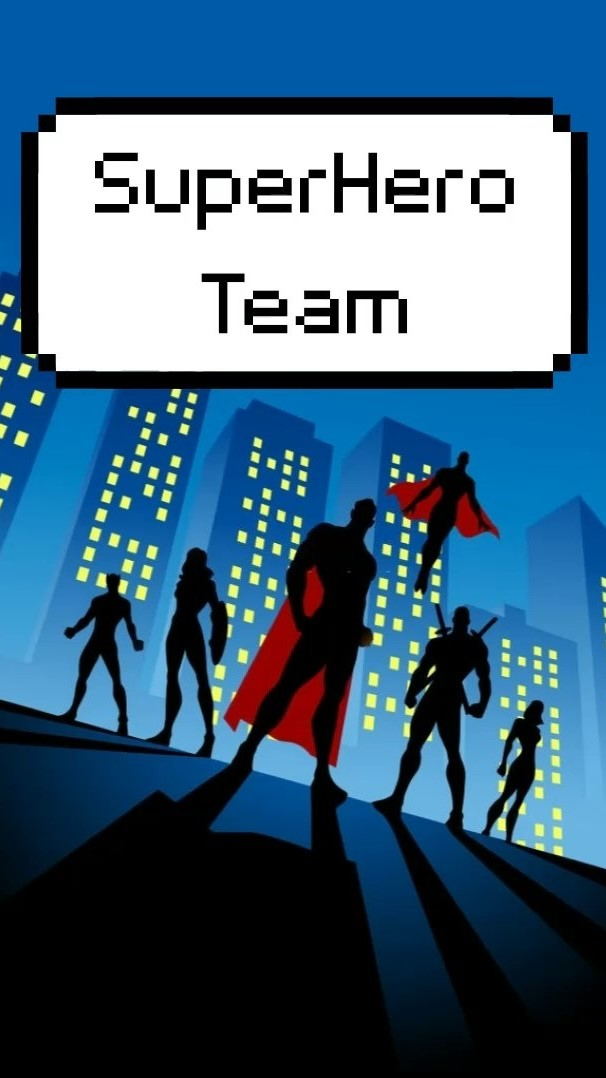
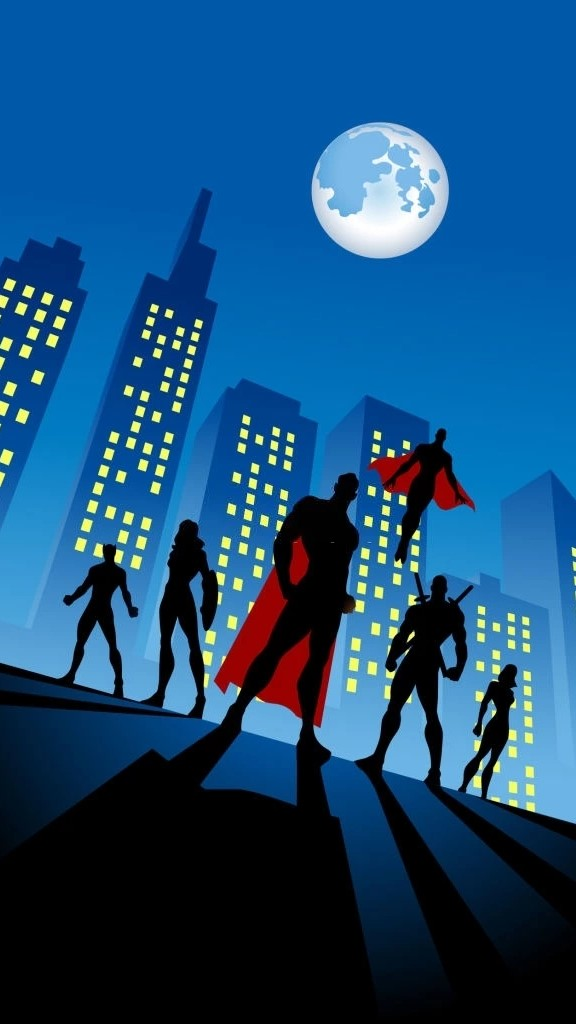
add new loading screen

diff --git a/src/screens/Home/HomeContainer.tsx b/src/screens/Home/HomeContainer.tsx
@@ -6,6 +6,7 @@ import {useSuperHeroApi} from '../../hooks/api/useSuperHeroApi';
 
 export const HomeContainer: React.FC = () => {
   const [isLoading, setIsLoading] = useState<boolean>(true);
+  const [timing, setTiming] = useState<boolean>(true);
   const [error, setError] = useState<boolean>(false);
   const {getAllSuperHeroes} = useSuperHeroApi();
 
@@ -19,6 +20,10 @@ export const HomeContainer: React.FC = () => {
     }
   };
 
+  setTimeout(() => {
+    setTiming(false);
+  }, 1000);
+
   useEffect(() => {
     initSuperHeroesList();
     // eslint-disable-next-line react-hooks/exhaustive-deps
@@ -28,7 +33,7 @@ export const HomeContainer: React.FC = () => {
     return <ErrorScreen />;
   }
 
-  if (isLoading) {
+  if (isLoading || timing) {
     return <LoadingScreen />;
   }
 

diff --git a/src/screens/Loading/LoadingScreen.tsx b/src/screens/Loading/LoadingScreen.tsx
@@ -1,6 +1,13 @@
 import React from 'react';
-import {Text} from 'react-native';
+import {ImageBackground} from 'react-native';
+import superHeroTeamImage from '../../assets/images/superHeroTeam.jpg';
 
-export const LoadingScreen = () => {
-  return <Text>Is loading</Text>;
+export const LoadingScreen: React.FC = () => {
+  return (
+    <ImageBackground
+      source={superHeroTeamImage}
+      resizeMode="cover"
+      style={{flex: 1}}
+    />
+  );
 };

diff --git a/src/screens/Welcome/WelcomeScreen.tsx b/src/screens/Welcome/WelcomeScreen.tsx
@@ -2,7 +2,7 @@ import React from 'react';
 import {View, ImageBackground} from 'react-native';
 import {NavigateButtonContainer} from '../../components';
 import {welcomeStyles} from './welcomeStyles';
-import superHeroTeamImage from '../../assets/images/superHeroTeam.jpg';
+import superHeroTeamImage from '../../assets/images/superHeroTeamWithLogo.jpg';
 
 export const WelcomeScreen: React.FC = () => {
   return (
